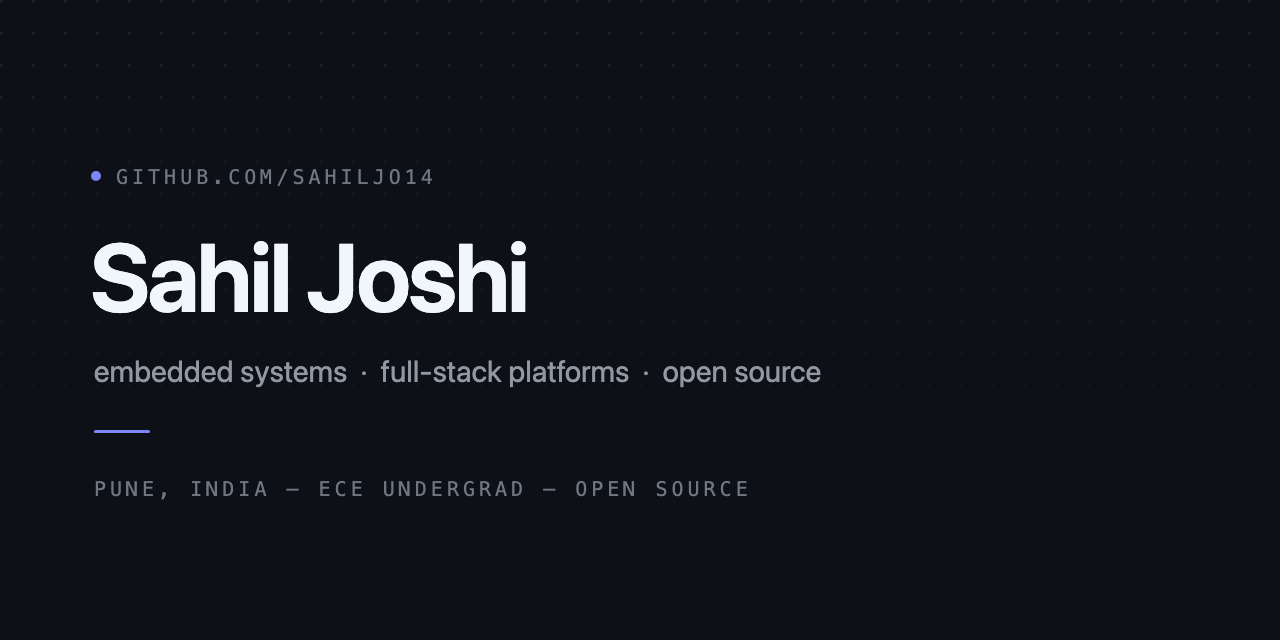
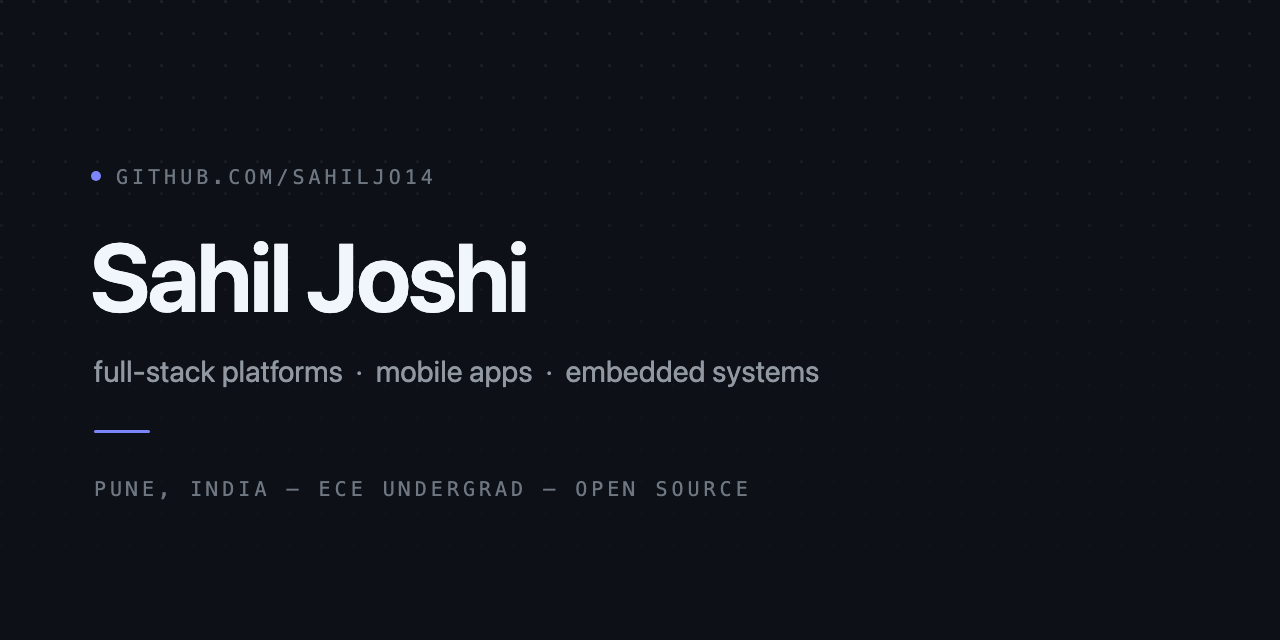
Lead with full-stack focus; remove external stats widgets

Changed region(s): [[0.0625, 0.5625, 0.6562, 0.625]]

diff --git a/README.md b/README.md
@@ -1,13 +1,15 @@
 <picture>
   <source media="(prefers-color-scheme: dark)" srcset="assets/hero-dark.svg">
   <source media="(prefers-color-scheme: light)" srcset="assets/hero-light.svg">
-  <img src="assets/hero-dark.svg" width="100%" alt="sahiljo14 — embedded systems, digital design, full-stack development, open source">
+  <img src="assets/hero-dark.svg" width="100%" alt="sahiljo14 — full-stack developer: web platforms, mobile apps, and the embedded layer beneath them">
 </picture>
 
 <br>
 <br>
 
-I'm an Electronics &amp; Communication Engineering student in India. My projects run the whole vertical: a RISC-V CPU implemented in Verilog, weather-station firmware on ESP8266, a full-stack IoT platform that streams sensor data over MQTT into PostgreSQL and a live React dashboard, and a Flutter app that parses Hinglish messages into deadlines. That range is deliberate — understanding the layer below makes you better at the layer above.
+I build full-stack software: a real-time IoT platform that streams sensor data over MQTT into PostgreSQL and a live React dashboard, a link shortener running in production on Render, and a Flutter app that parses Hinglish messages into deadlines.
+
+I'm also an Electronics &amp; Communication Engineering student in India — which is why the same portfolio reaches down to ESP8266 firmware and a RISC-V CPU implemented in Verilog. Understanding the layer below makes you better at the layer above.
 
 Next up is [MangaForge](https://github.com/sahiljo14/MangaForge) — the repository is live, and the first public code lands soon.
 
@@ -17,19 +19,19 @@ Next up is [MangaForge](https://github.com/sahiljo14/MangaForge) — the reposit
 
 ### Featured work
 
-<a href="https://github.com/sahiljo14/nudge-app">
-  <picture>
-    <source media="(prefers-color-scheme: dark)" srcset="assets/cards/nudge-dark.svg">
-    <source media="(prefers-color-scheme: light)" srcset="assets/cards/nudge-light.svg">
-    <img src="assets/cards/nudge-dark.svg" width="100%" alt="Nudge — student task manager that parses English, Hinglish, and Marathi messages into deadlines. Flutter, Dart, SQLite, Android share intents.">
-  </picture>
-</a>
-
 <a href="https://github.com/sahiljo14/fullstack-iot-environment-monitoring-platform">
   <picture>
     <source media="(prefers-color-scheme: dark)" srcset="assets/cards/envirosense-dark.svg">
     <source media="(prefers-color-scheme: light)" srcset="assets/cards/envirosense-light.svg">
     <img src="assets/cards/envirosense-dark.svg" width="100%" alt="EnviroSense — full-stack IoT platform streaming sensor data over MQTT into PostgreSQL and a live React dashboard. Node.js, React, MQTT, PostgreSQL, Recharts.">
+  </picture>
+</a>
+
+<a href="https://github.com/sahiljo14/nudge-app">
+  <picture>
+    <source media="(prefers-color-scheme: dark)" srcset="assets/cards/nudge-dark.svg">
+    <source media="(prefers-color-scheme: light)" srcset="assets/cards/nudge-light.svg">
+    <img src="assets/cards/nudge-dark.svg" width="100%" alt="Nudge — student task manager that parses English, Hinglish, and Marathi messages into deadlines. Flutter, Dart, SQLite, Android share intents.">
   </picture>
 </a>
 
@@ -64,29 +66,12 @@ Everything here appears in a repository above.
 
 | | |
 | :--- | :--- |
-| **Languages** | C / C++ · Dart · JavaScript · Python · Java · Verilog |
+| **Languages** | JavaScript · Python · Java · Dart · C / C++ · Verilog |
 | **Frontend** | React · Flutter · HTML / CSS |
 | **Backend** | Node.js · Express · REST APIs · MQTT |
 | **Databases** | PostgreSQL · MongoDB Atlas · SQLite |
 | **Hardware** | ESP8266 / ESP32 · Arduino · DHT &amp; BMP sensors |
 | **Tools** | Git &amp; GitHub · Render · Vivado / ModelSim · MATLAB · Altium Designer |
-
-<br>
-
-<img src="assets/divider.svg" width="100%" alt="">
-
-### GitHub
-
-<picture>
-  <source media="(prefers-color-scheme: dark)" srcset="https://github-readme-stats.vercel.app/api?username=sahiljo14&show_icons=true&hide_border=true&bg_color=00000000&text_color=9198a1&title_color=f0f6fc&icon_color=7c86f8&ring_color=7c86f8&card_width=440">
-  <source media="(prefers-color-scheme: light)" srcset="https://github-readme-stats.vercel.app/api?username=sahiljo14&show_icons=true&hide_border=true&bg_color=00000000&text_color=59636e&title_color=1f2328&icon_color=4f46e5&ring_color=4f46e5&card_width=440">
-  <img height="170" src="https://github-readme-stats.vercel.app/api?username=sahiljo14&show_icons=true&hide_border=true&bg_color=00000000&text_color=9198a1&title_color=f0f6fc&icon_color=7c86f8&ring_color=7c86f8&card_width=440" alt="GitHub stats">
-</picture>
-<picture>
-  <source media="(prefers-color-scheme: dark)" srcset="https://github-readme-stats.vercel.app/api/top-langs/?username=sahiljo14&layout=compact&hide_border=true&bg_color=00000000&text_color=9198a1&title_color=f0f6fc&langs_count=8&card_width=380">
-  <source media="(prefers-color-scheme: light)" srcset="https://github-readme-stats.vercel.app/api/top-langs/?username=sahiljo14&layout=compact&hide_border=true&bg_color=00000000&text_color=59636e&title_color=1f2328&langs_count=8&card_width=380">
-  <img height="170" src="https://github-readme-stats.vercel.app/api/top-langs/?username=sahiljo14&layout=compact&hide_border=true&bg_color=00000000&text_color=9198a1&title_color=f0f6fc&langs_count=8&card_width=380" alt="Top languages">
-</picture>
 
 <br>
 
